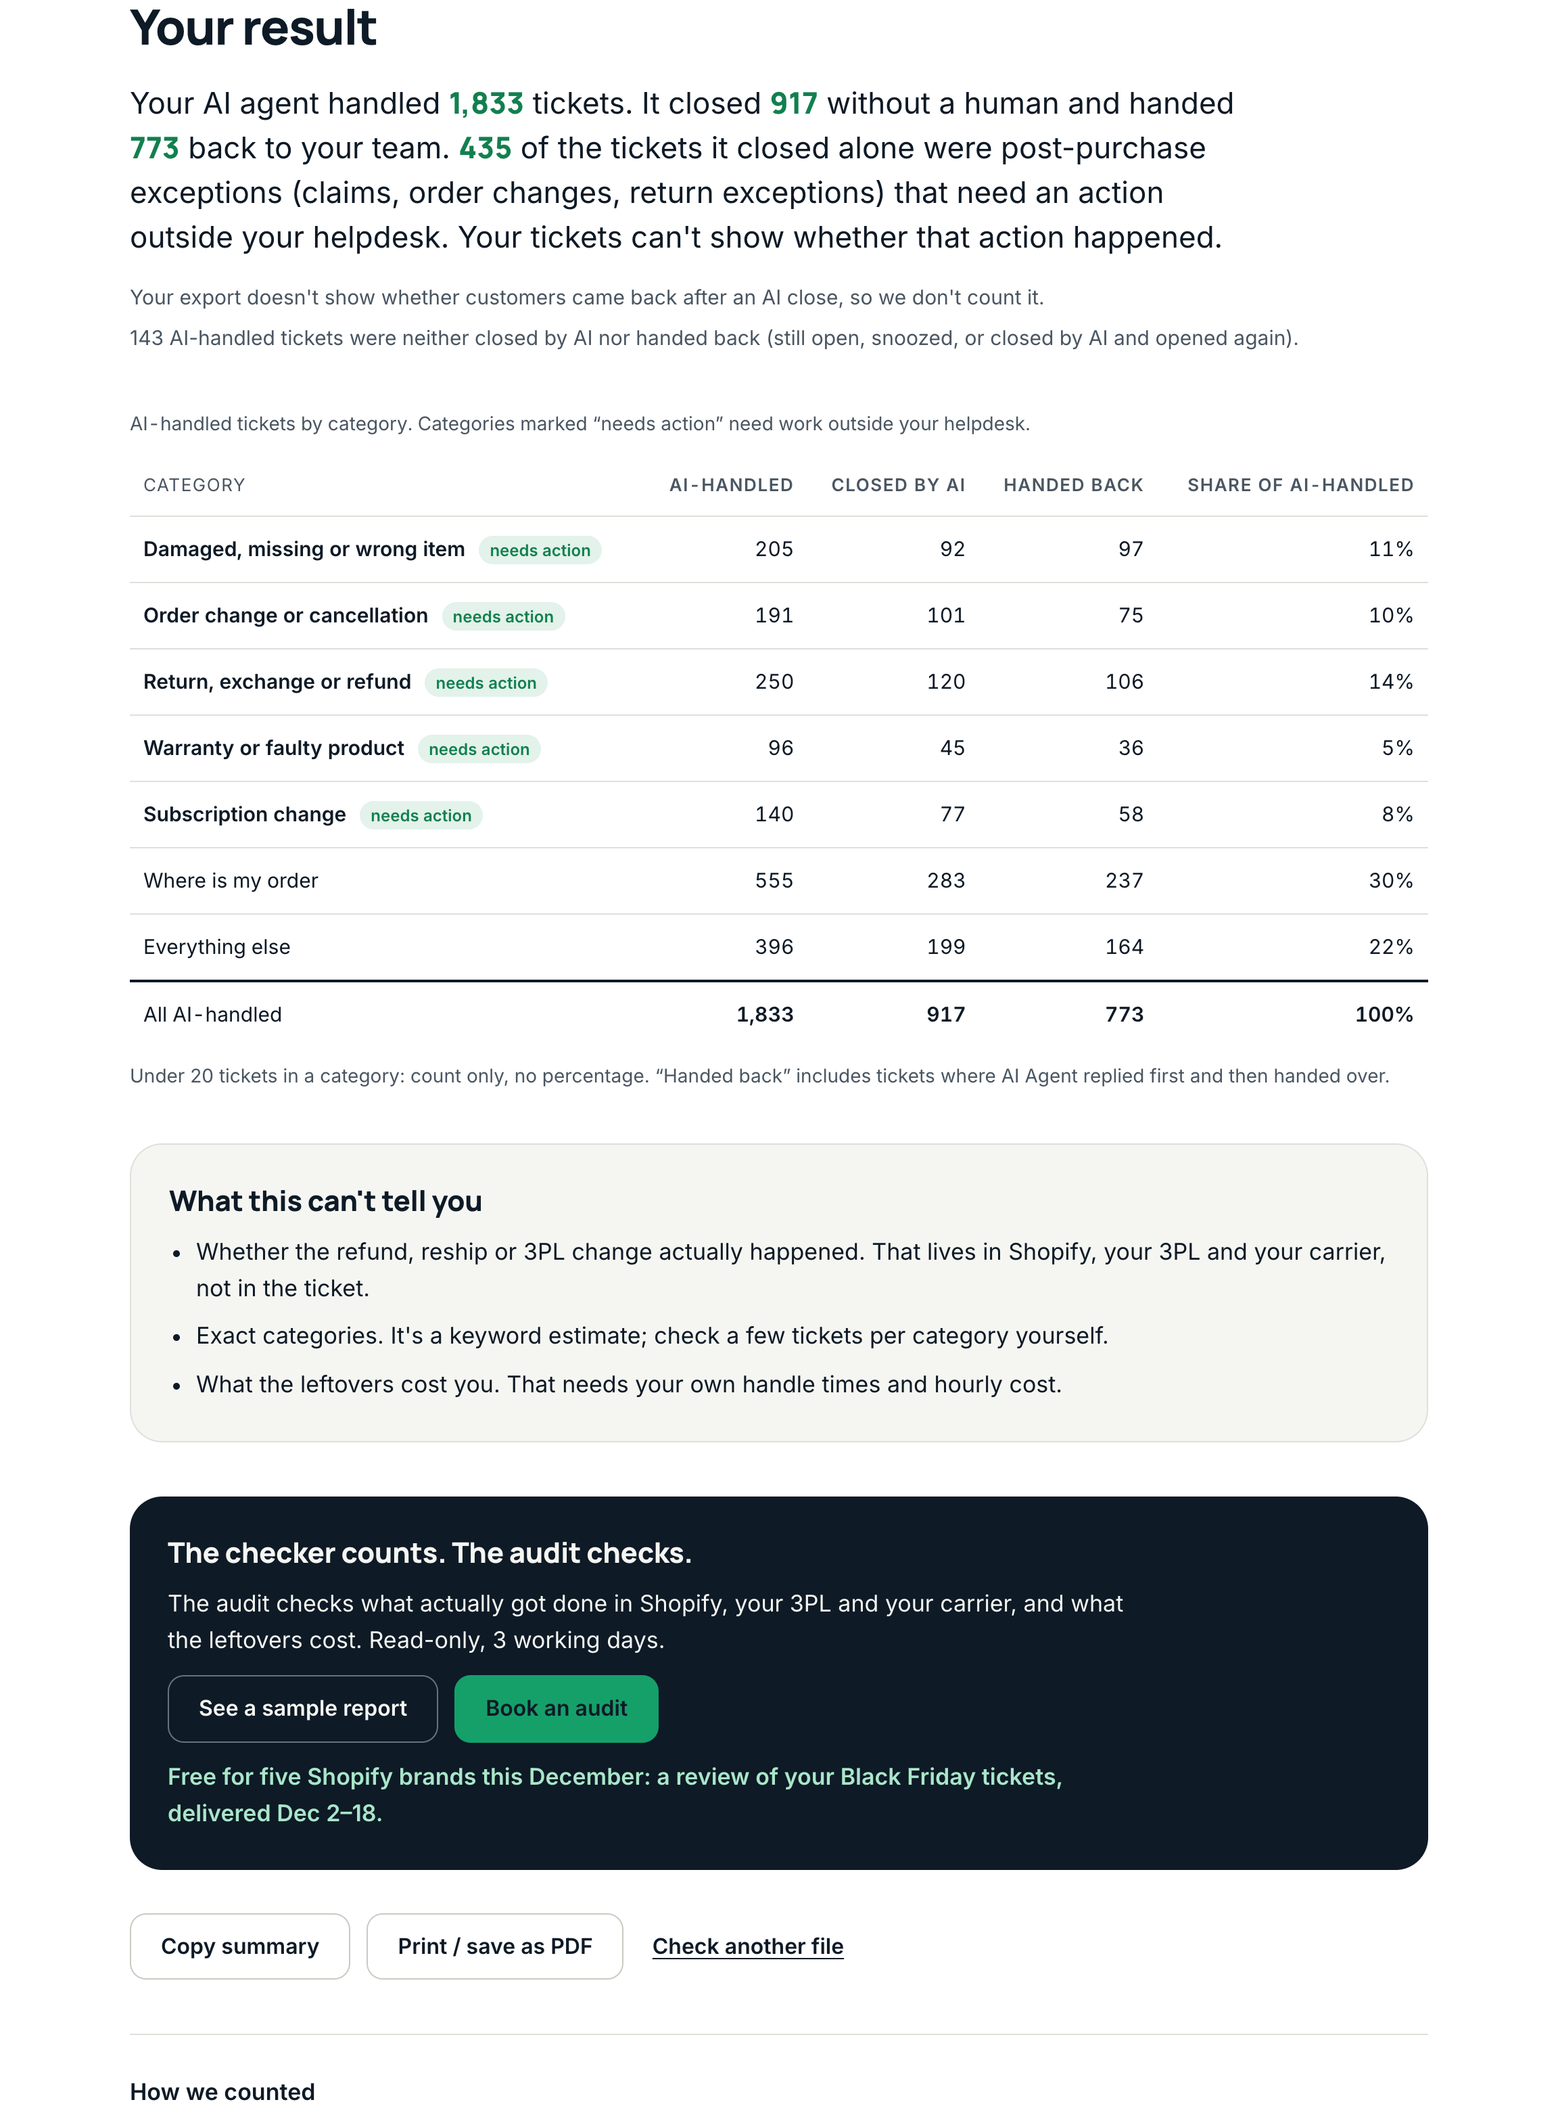
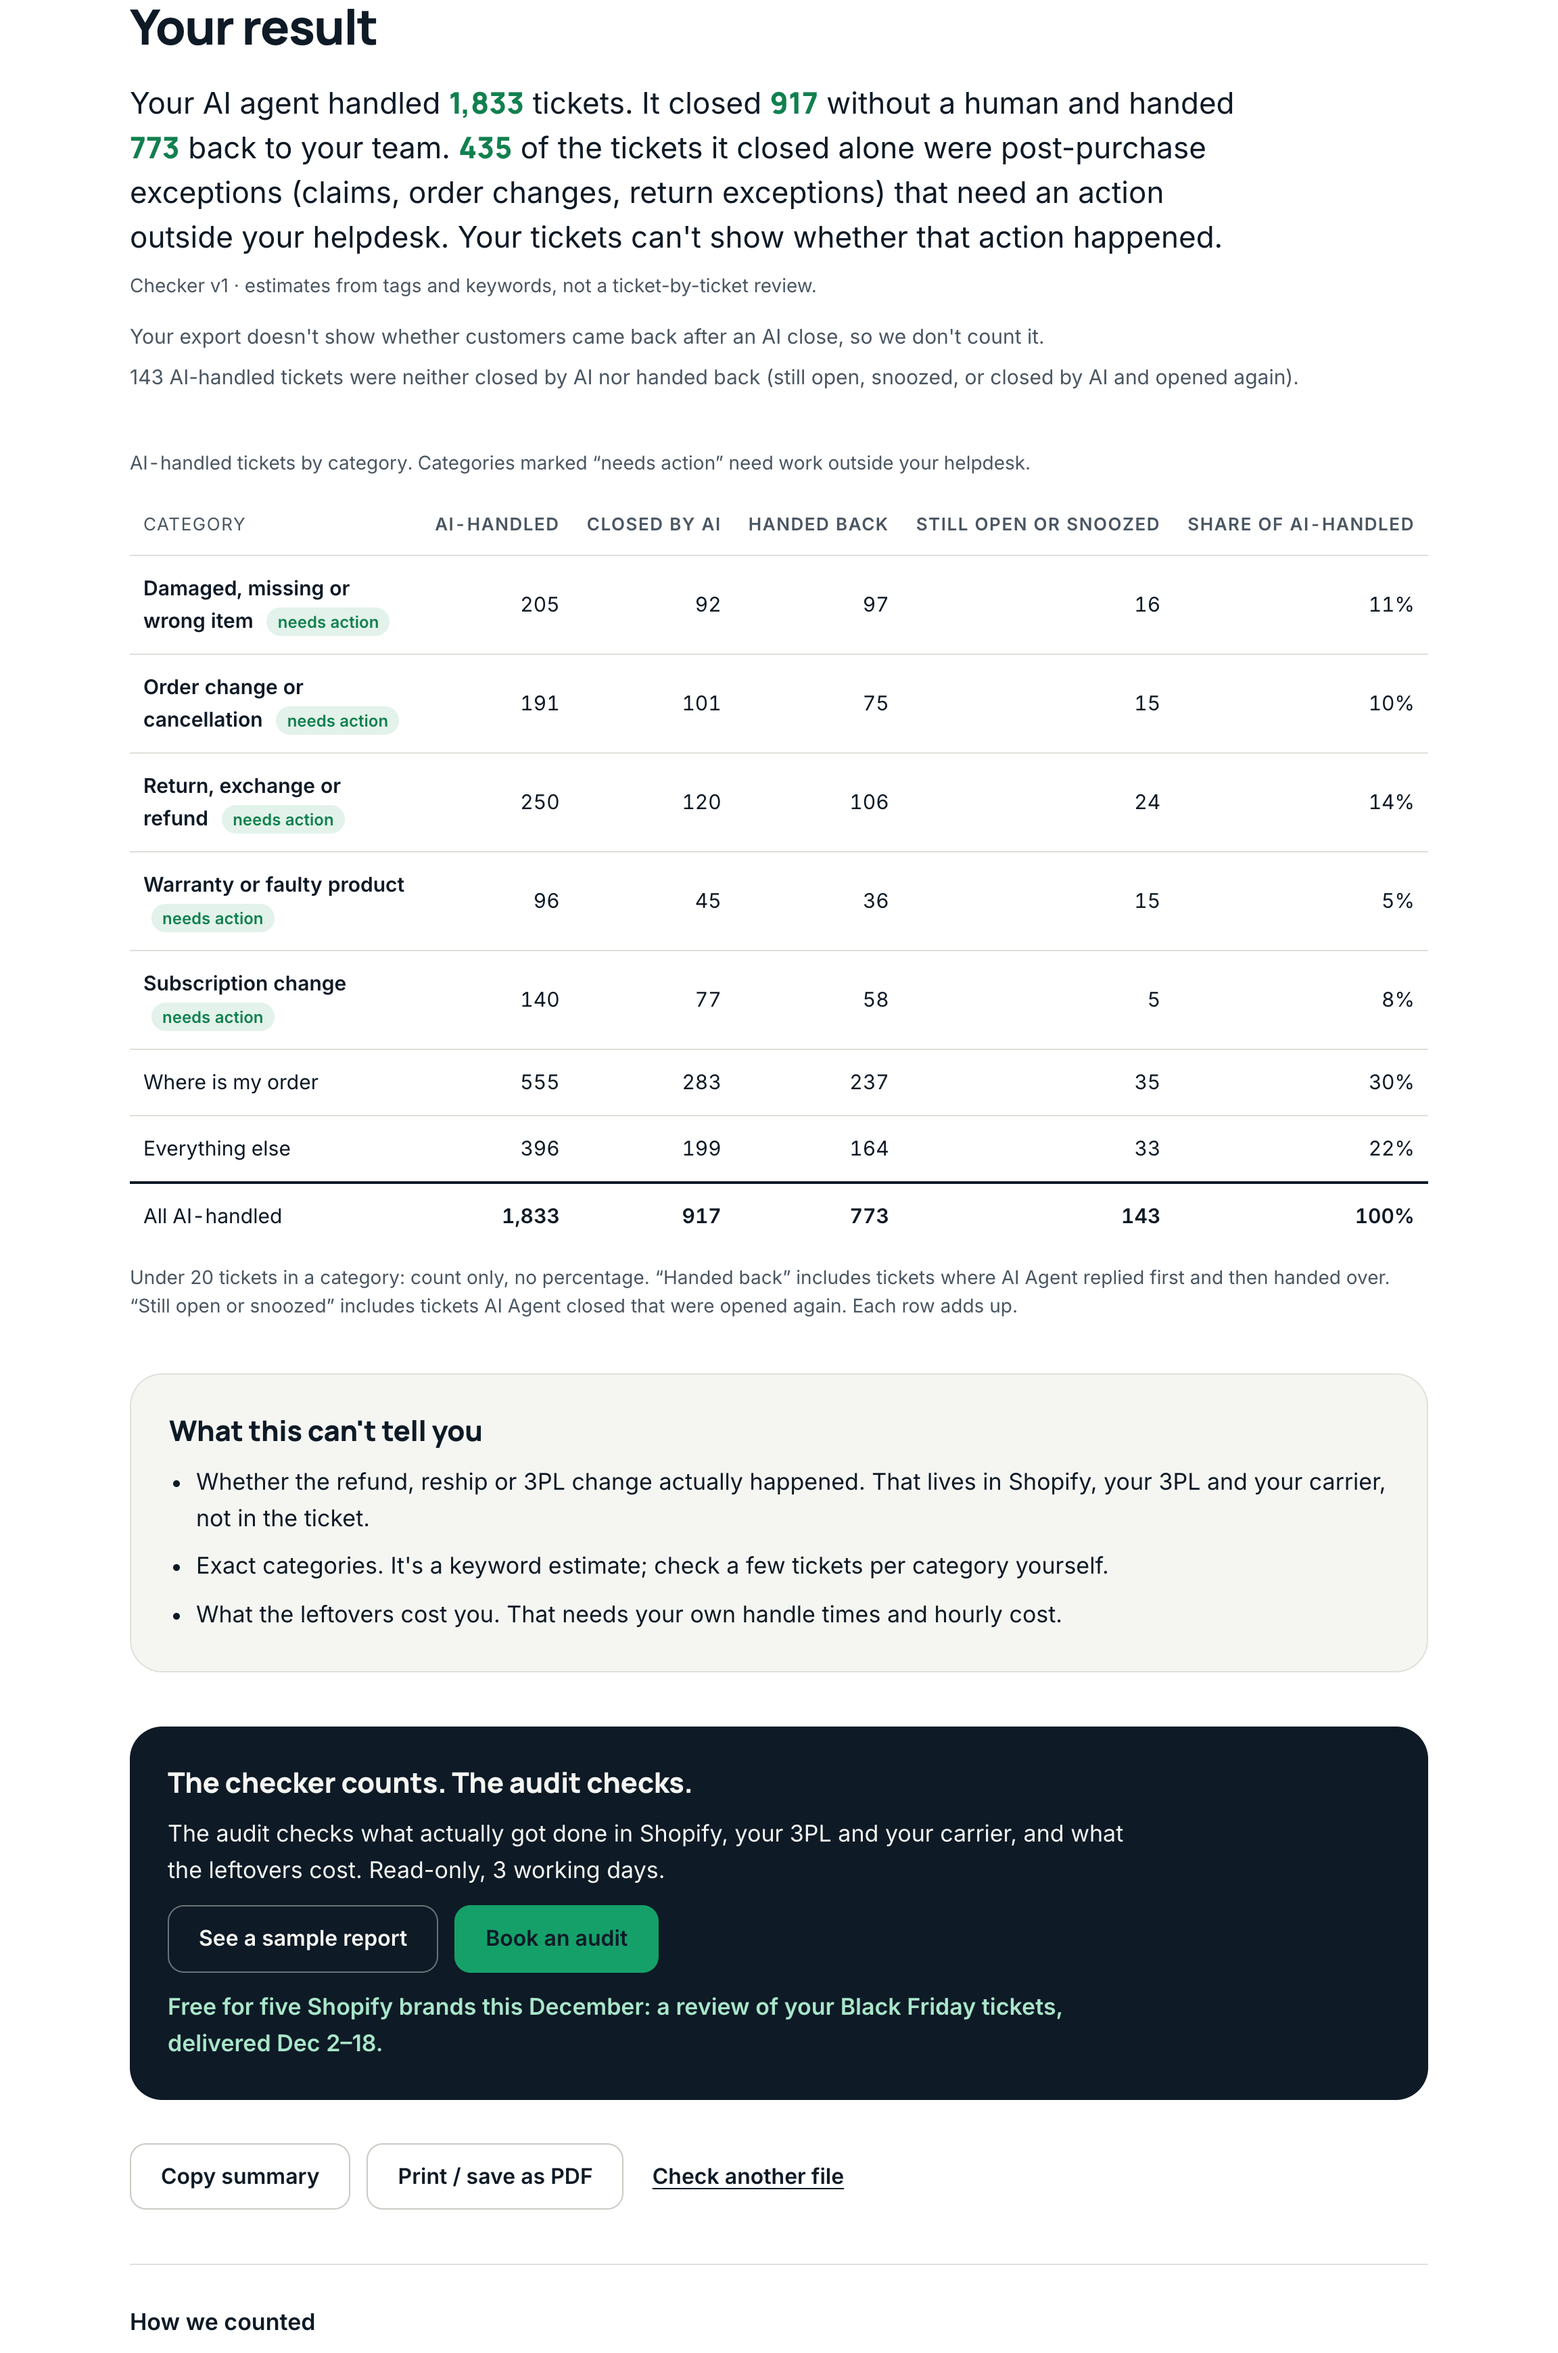
T148: v1 estimates line, LICENSE, vendor notice

diff --git a/web/app.js b/web/app.js
@@ -1,7 +1,7 @@
 // Page logic. The file is read by worker.js; this side only ever receives counts.
 // Everything is written with textContent: no ticket text reaches the DOM.
 import {
-  CAME_BACK_NOTE, NO_AI_BODY, NO_AI_TITLE, SMALL_SAMPLE_NOTE, SKIP_REASONS,
+  CAME_BACK_NOTE, ESTIMATE_LINE, NO_AI_BODY, NO_AI_TITLE, SMALL_SAMPLE_NOTE, SKIP_REASONS,
   categoryRows, fmt, headlineParts, summaryText,
 } from "../core/report.js";
 import { RULES } from "../core/rules-data.js";
@@ -110,10 +110,13 @@ function render(r) {
     headline.append(el("p", {}, [String(NO_AI_TITLE)]));
     notes.append(el("li", {}, [String(NO_AI_BODY)]), el("li", {}, [`Tickets in the export: ${fmt(r.tickets)}.`]));
     show("table-wrap", false);
+    show("estimate", false);
   } else {
     for (const sentence of headlineParts(r)) {
       headline.append(...sentence.map((p) => (typeof p === "string" ? p : el("strong", {}, [fmt(p.n)]))), " ");
     }
+    $("estimate").textContent = ESTIMATE_LINE;
+    show("estimate", true);
     notes.append(el("li", {}, [String(CAME_BACK_NOTE)]));
     if (r.notes.smallSample) notes.append(el("li", { class: "warn" }, [String(SMALL_SAMPLE_NOTE)]));
     if (r.ai.open) notes.append(el("li", {}, [`${fmt(r.ai.open)} AI-handled tickets were neither closed by AI nor handed back (still open, snoozed, or closed by AI and opened again).`]));

diff --git a/test/checker.test.js b/test/checker.test.js
@@ -1,6 +1,6 @@
 import assert from "node:assert/strict";
 import { test } from "node:test";
-import { createChecker, createRowFeed, RULES, categoryRows, headlineText, mapHeaders, percent, summaryText } from "../core/index.js";
+import { createChecker, createRowFeed, ESTIMATE_LINE, RULES, categoryRows, headlineText, mapHeaders, percent, summaryText } from "../core/index.js";
 
 const H = ["Ticket id", "Tags", "Subject", "Closed date"];
 
@@ -89,4 +89,14 @@ test("the result holds counts only: no strings from the file except header names
   assert.ok(!json.includes("Secret"));
   assert.ok(!json.includes("jane@example.com"));
   assert.ok(!json.includes("123456"));
+});
+
+test("summary carries the v1 estimates line right after the headline", async () => {
+  const { readFileSync } = await import("node:fs");
+  const { checkFile } = await import("../cli/check.js");
+  const r = await checkFile(new URL("../samples/edge/gorgias-small.csv", import.meta.url).pathname);
+  const lines = summaryText(/** @type {any} */ (r)).split("\n");
+  assert.equal(lines[2], headlineText(/** @type {any} */ (r)));
+  assert.equal(lines[3], ESTIMATE_LINE);
+  assert.match(readFileSync(new URL("../web/index.html", import.meta.url), "utf8"), /id="headline"[^>]*><\/div>\s*<p class="small muted estimate" id="estimate"/);
 });

diff --git a/web/index.html b/web/index.html
@@ -32,7 +32,7 @@
     "isAccessibleForFree": true,
     "offers": { "@type": "Offer", "price": "0", "priceCurrency": "USD" },
     "license": "https://opensource.org/licenses/MIT",
-    "dateModified": "2026-11-15",
+    "dateModified": "2026-11-18",
     "publisher": { "@type": "Organization", "name": "Closewell", "url": "https://closewellhq.com/" }
   }
   </script>
@@ -99,6 +99,7 @@
       <div class="wrap">
         <h2 class="h2" id="result-title">Your result</h2>
         <div id="headline" class="headline"></div>
+        <p class="small muted estimate" id="estimate" hidden></p>
         <ul class="notes" id="notes"></ul>
 
         <div class="table-wrap" id="table-wrap">
@@ -150,7 +151,7 @@
 
   <footer class="site-footer">
     <div class="wrap">
-      <p>Last updated <time datetime="2026-11-15">November 15, 2026</time> · <a href="https://github.com/maxtechstack/ai-support-checker">Open source on GitHub</a> · Made by <a href="/">Closewell</a></p>
+      <p>Last updated <time datetime="2026-11-18">November 18, 2026</time> · <a href="https://github.com/maxtechstack/ai-support-checker">Open source on GitHub</a> · Made by <a href="/">Closewell</a></p>
     </div>
   </footer>
 </body>

diff --git a/core/report.js b/core/report.js
@@ -46,6 +46,8 @@ export function headlineText(r) {
     .join(" ");
 }
 
+/** Shown under the headline, in Copy summary, in print and in the CLI. Rules are not yet checked on real AI Agent traffic. */
+export const ESTIMATE_LINE = "Checker v1 · estimates from tags and keywords, not a ticket-by-ticket review.";
 export const CAME_BACK_NOTE =
   "Your export doesn't show whether customers came back after an AI close, so we don't count it.";
 export const NO_AI_TITLE = "We found no tickets handled by Gorgias AI Agent in this export.";
@@ -84,7 +86,7 @@ export function summaryText(r) {
     lines.push(`Tickets in the export: ${fmt(r.tickets)}`, NO_AI_TITLE);
     return lines.join("\n");
   }
-  lines.push(headlineText(r), CAME_BACK_NOTE);
+  lines.push(headlineText(r), ESTIMATE_LINE, CAME_BACK_NOTE);
   if (r.notes.smallSample) lines.push(SMALL_SAMPLE_NOTE);
   lines.push("", "By category (AI-handled / closed by AI / handed back / still open or snoozed / share of AI-handled):");
   for (const row of categoryRows(r)) {

diff --git a/web/styles.css b/web/styles.css
@@ -124,6 +124,7 @@ svg { display: block; }
 .result .h2:focus { outline: none; }
 .headline { margin-top: 20px; font-size: clamp(19px, 0.6vw + 15px, 22px); line-height: 1.5; max-width: 820px; }
 .headline strong { font-family: var(--font-head); font-weight: 800; color: var(--green-text); }
+.estimate { margin-top: 8px; }
 .notes { list-style: none; padding: 0; margin-top: 16px; display: grid; gap: 6px; font-size: 15px; color: var(--muted); }
 .notes .warn { color: var(--ink); background: var(--amber-tint); padding: 8px 12px; border-radius: var(--radius-sm); }
 
